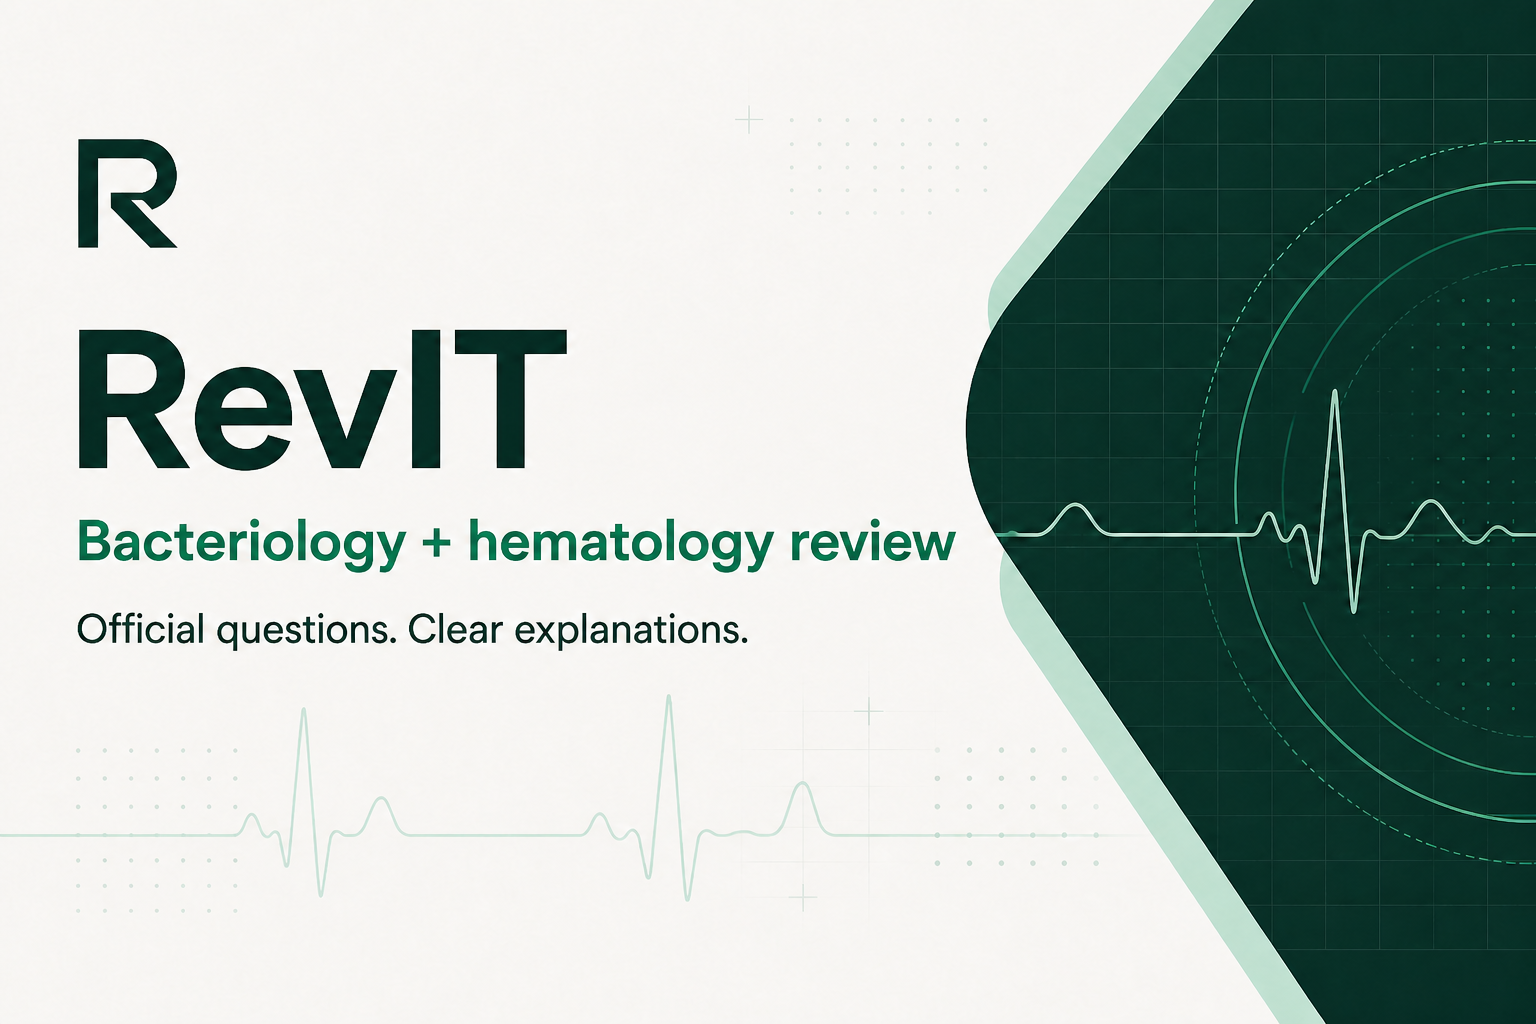
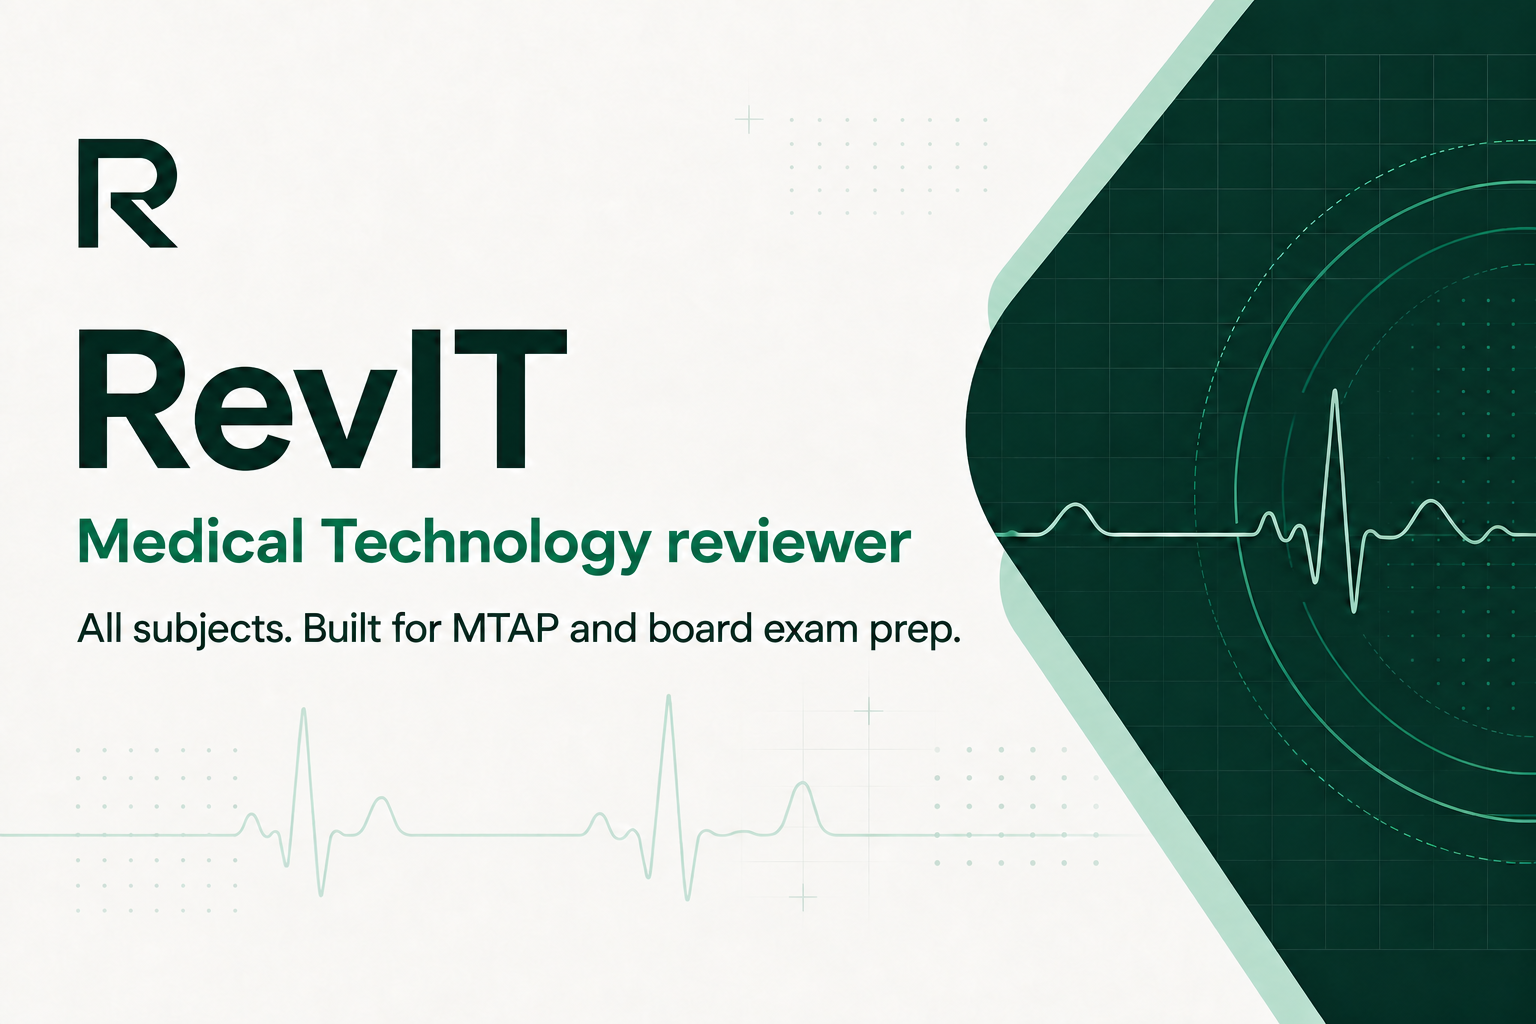
Broaden RevIT MedTech reviewer messaging

Changed region(s): [[0.0312, 0.5, 0.625, 0.5625], [0.0312, 0.5938, 0.625, 0.6562], [0.0625, 0.125, 0.0938, 0.1562]]

diff --git a/app/layout.tsx b/app/layout.tsx
@@ -9,7 +9,7 @@ export async function generateMetadata(): Promise<Metadata> {
   const protocol = requestHeaders.get("x-forwarded-proto") ?? (host.startsWith("localhost") ? "http" : "https");
   const socialImage = `${protocol}://${host}/og.png`;
   const title = "RevIT | Review It Thoroughly";
-  const description = "RevIT is a focused Medical Technology review platform for structured practice, study planning, progress tracking, and educational AI support.";
+  const description = "RevIT helps Medical Technology students review their subjects and prepare for MTAP and board exams with structured practice, study planning, progress tracking, and educational AI support.";
 
   return {
     title: {
@@ -21,7 +21,7 @@ export async function generateMetadata(): Promise<Metadata> {
       title,
       description,
       type: "website",
-      images: [{ url: socialImage, width: 1536, height: 1024, alt: "RevIT — Review It Thoroughly" }],
+      images: [{ url: socialImage, width: 1536, height: 1024, alt: "RevIT Medical Technology reviewer for MTAP and board exam preparation" }],
     },
     twitter: {
       card: "summary_large_image",

diff --git a/app/auth/page.tsx b/app/auth/page.tsx
@@ -21,9 +21,9 @@ export default async function AuthPage({ searchParams }: { searchParams: Promise
             <span className="sr-only">RevIT</span>
           </a>
           <div className="auth-hero-copy">
-            <p className="eyebrow">Focused MedTech review</p>
+            <p className="eyebrow">MedTech review and exam prep</p>
             <h2>Review It<br />Thoroughly.</h2>
-            <p>A focused review platform for Medical Technology students. Practice structured reviewer questions, identify areas that need more attention, plan your studies, and track your progress in one place.</p>
+            <p>Study across Medical Technology subjects and prepare for MTAP and board exams. Practice structured reviewer questions, identify areas that need more attention, plan your studies, and track your progress in one place.</p>
           </div>
           <ul className="auth-benefits" aria-label="RevIT features">
             <li><span>01</span><div><strong>Structured Reviewer Practice</strong><p>Practice organized Medical Technology questions by subject and topic.</p></div></li>

diff --git a/README.md b/README.md
@@ -1,10 +1,10 @@
 # RevIT
 
-RevIT is a source-aware medtech reviewer with official bacteriology and hematology questions, Groq-powered educational explanations, Supabase accounts and cross-device study data, an activity calendar, exam scheduling, and deterministic grade planning.
+RevIT is a Medical Technology study and review platform built for subject review, MTAP preparation, and board exam preparation. It combines source-aware reviewer questions, Groq-powered educational explanations, Supabase accounts and cross-device study data, an activity calendar, exam scheduling, and deterministic grade planning.
 
 ## What is included
 
-- 103 official reviewer MCQs across Bacteriology and Hematology 1, with source filename and page retained.
+- A growing source-aware reviewer library organized by subject and topic, currently covering Clinical Chemistry, Hematology, Bacteriology, and AUBF with source filename and page retained.
 - Registration, separate sign-in after account creation, password recovery, remember-me/session-only behavior, protected routes, profile onboarding, avatar upload, password changes, other-device sign-out, and optional TOTP two-factor authentication.
 - Row-level-secured cloud storage for profiles, grades, daily activity, idempotent activity events, exam schedules, and preferences.
 - Monthly activity intensity, timezone-safe streaks, date details, independent exam markers, and an Up Next assessment.
